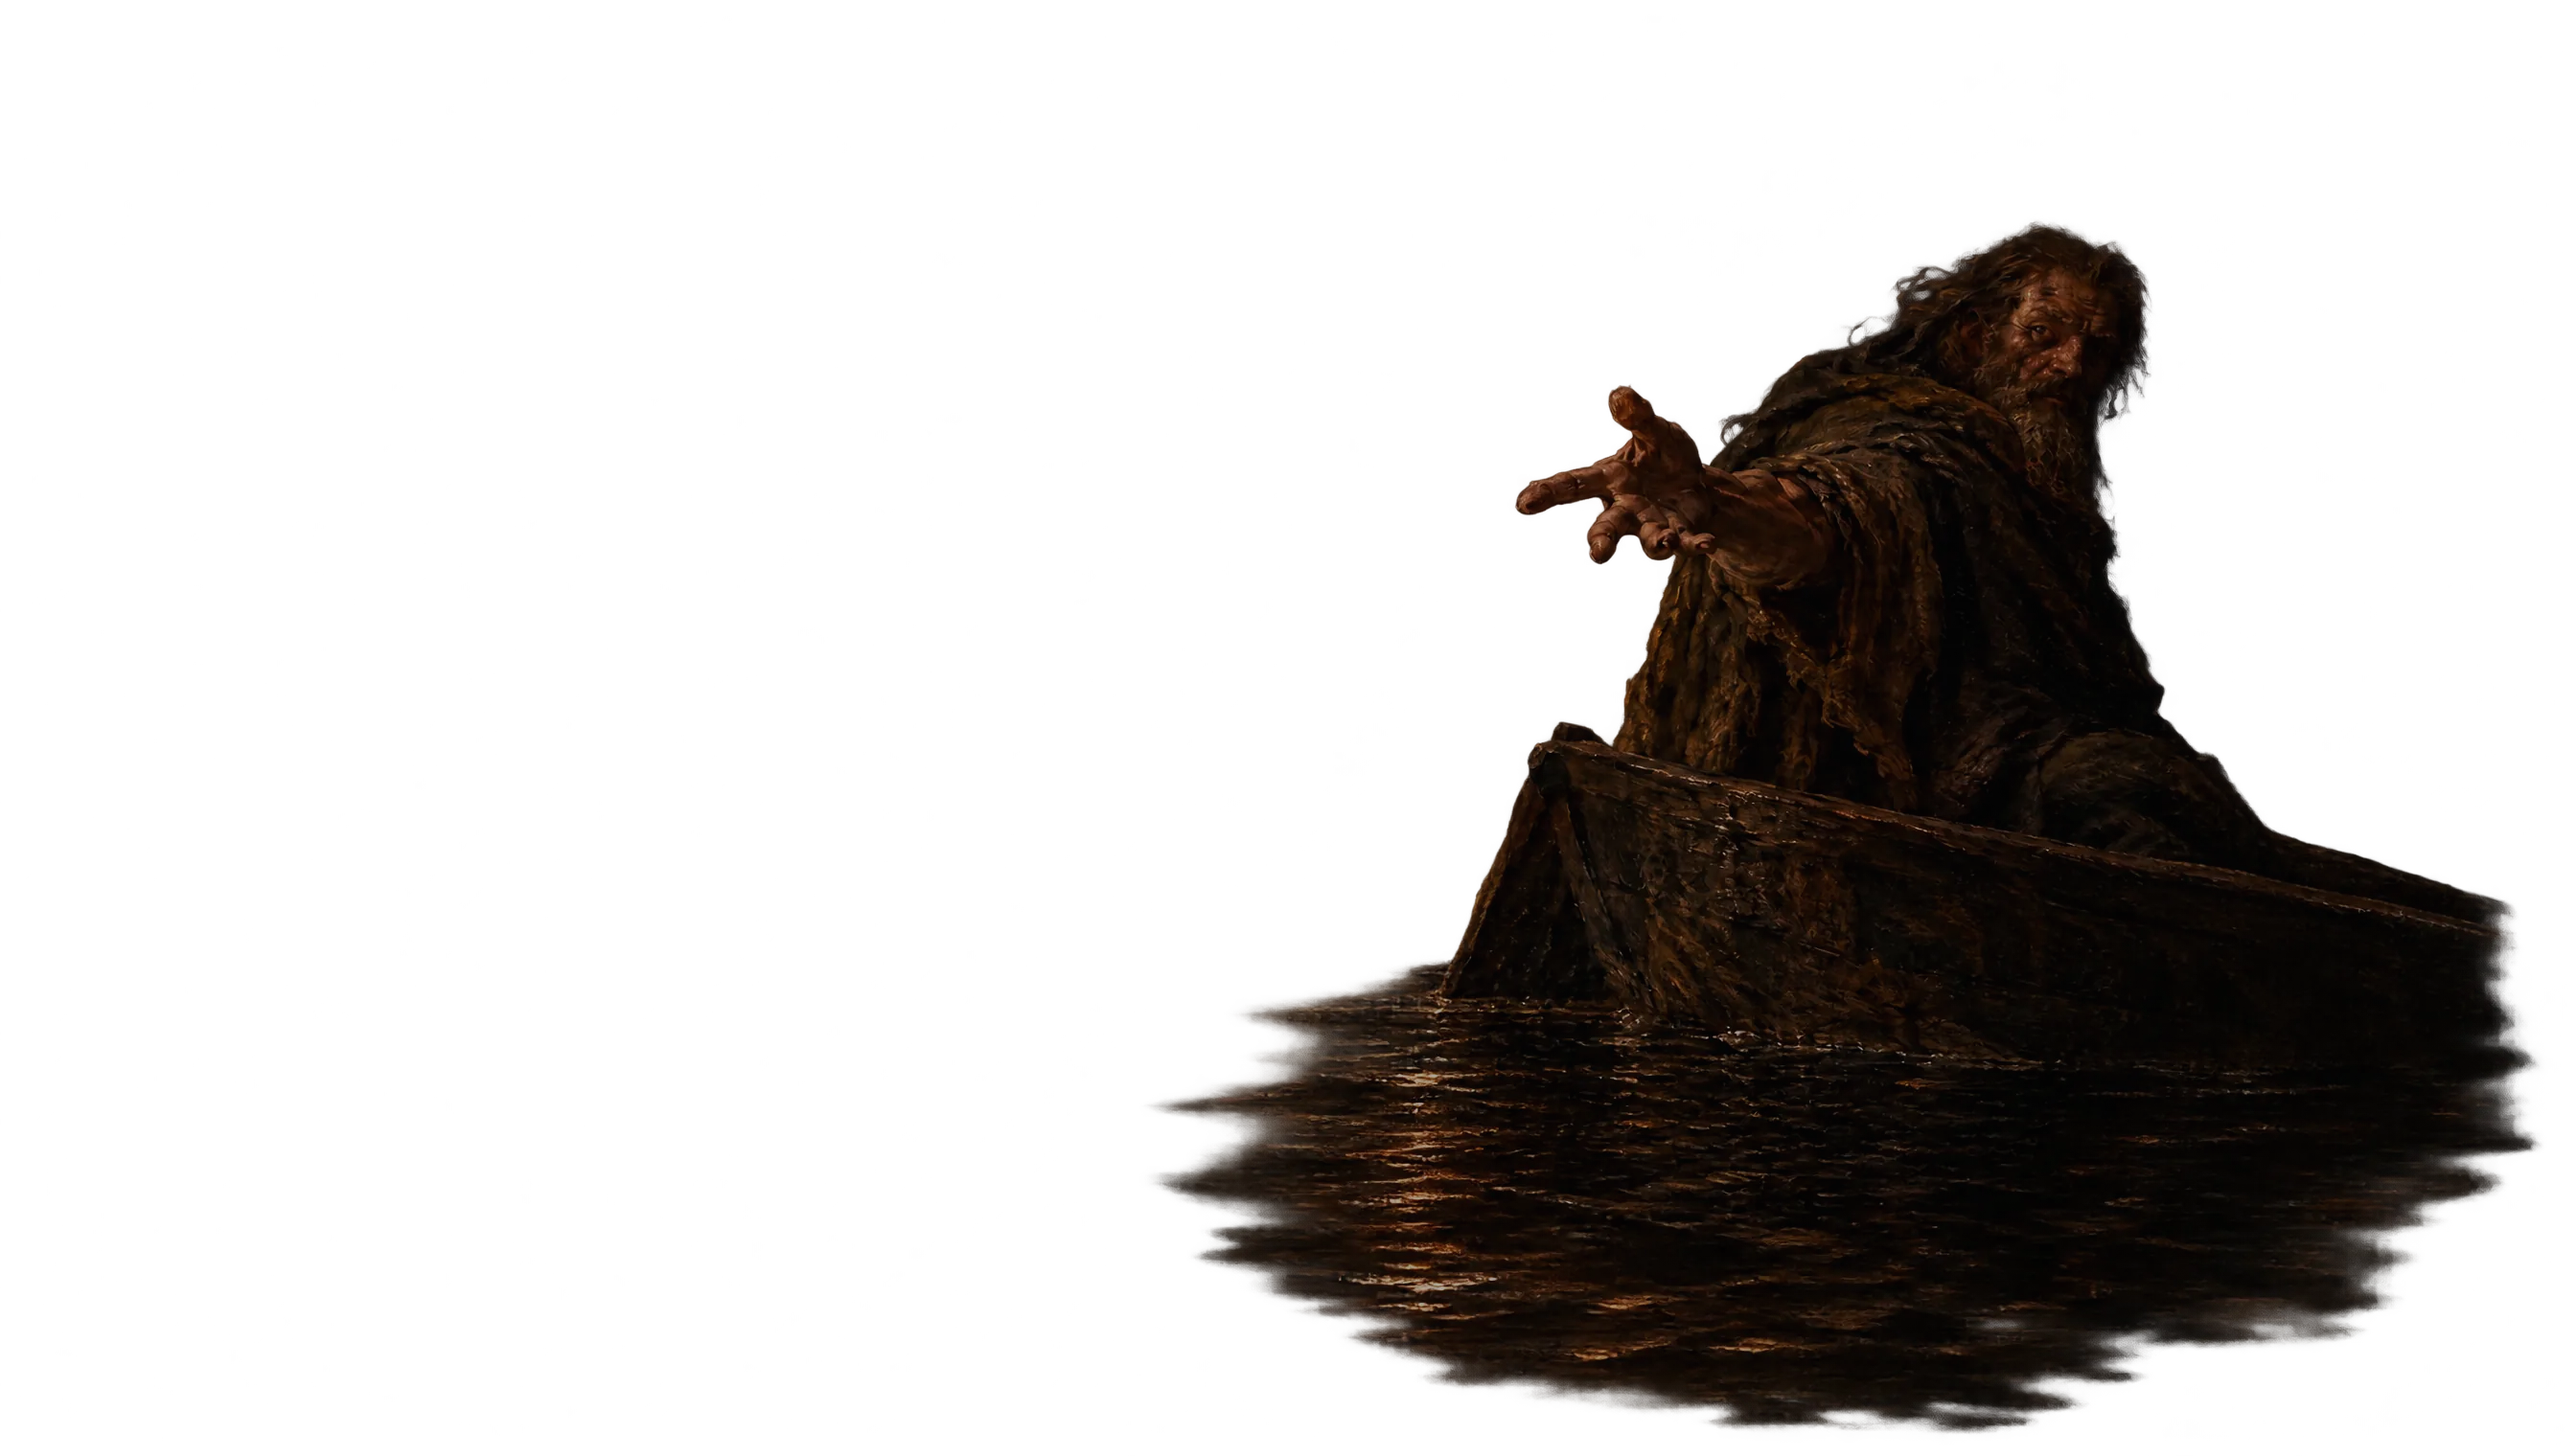
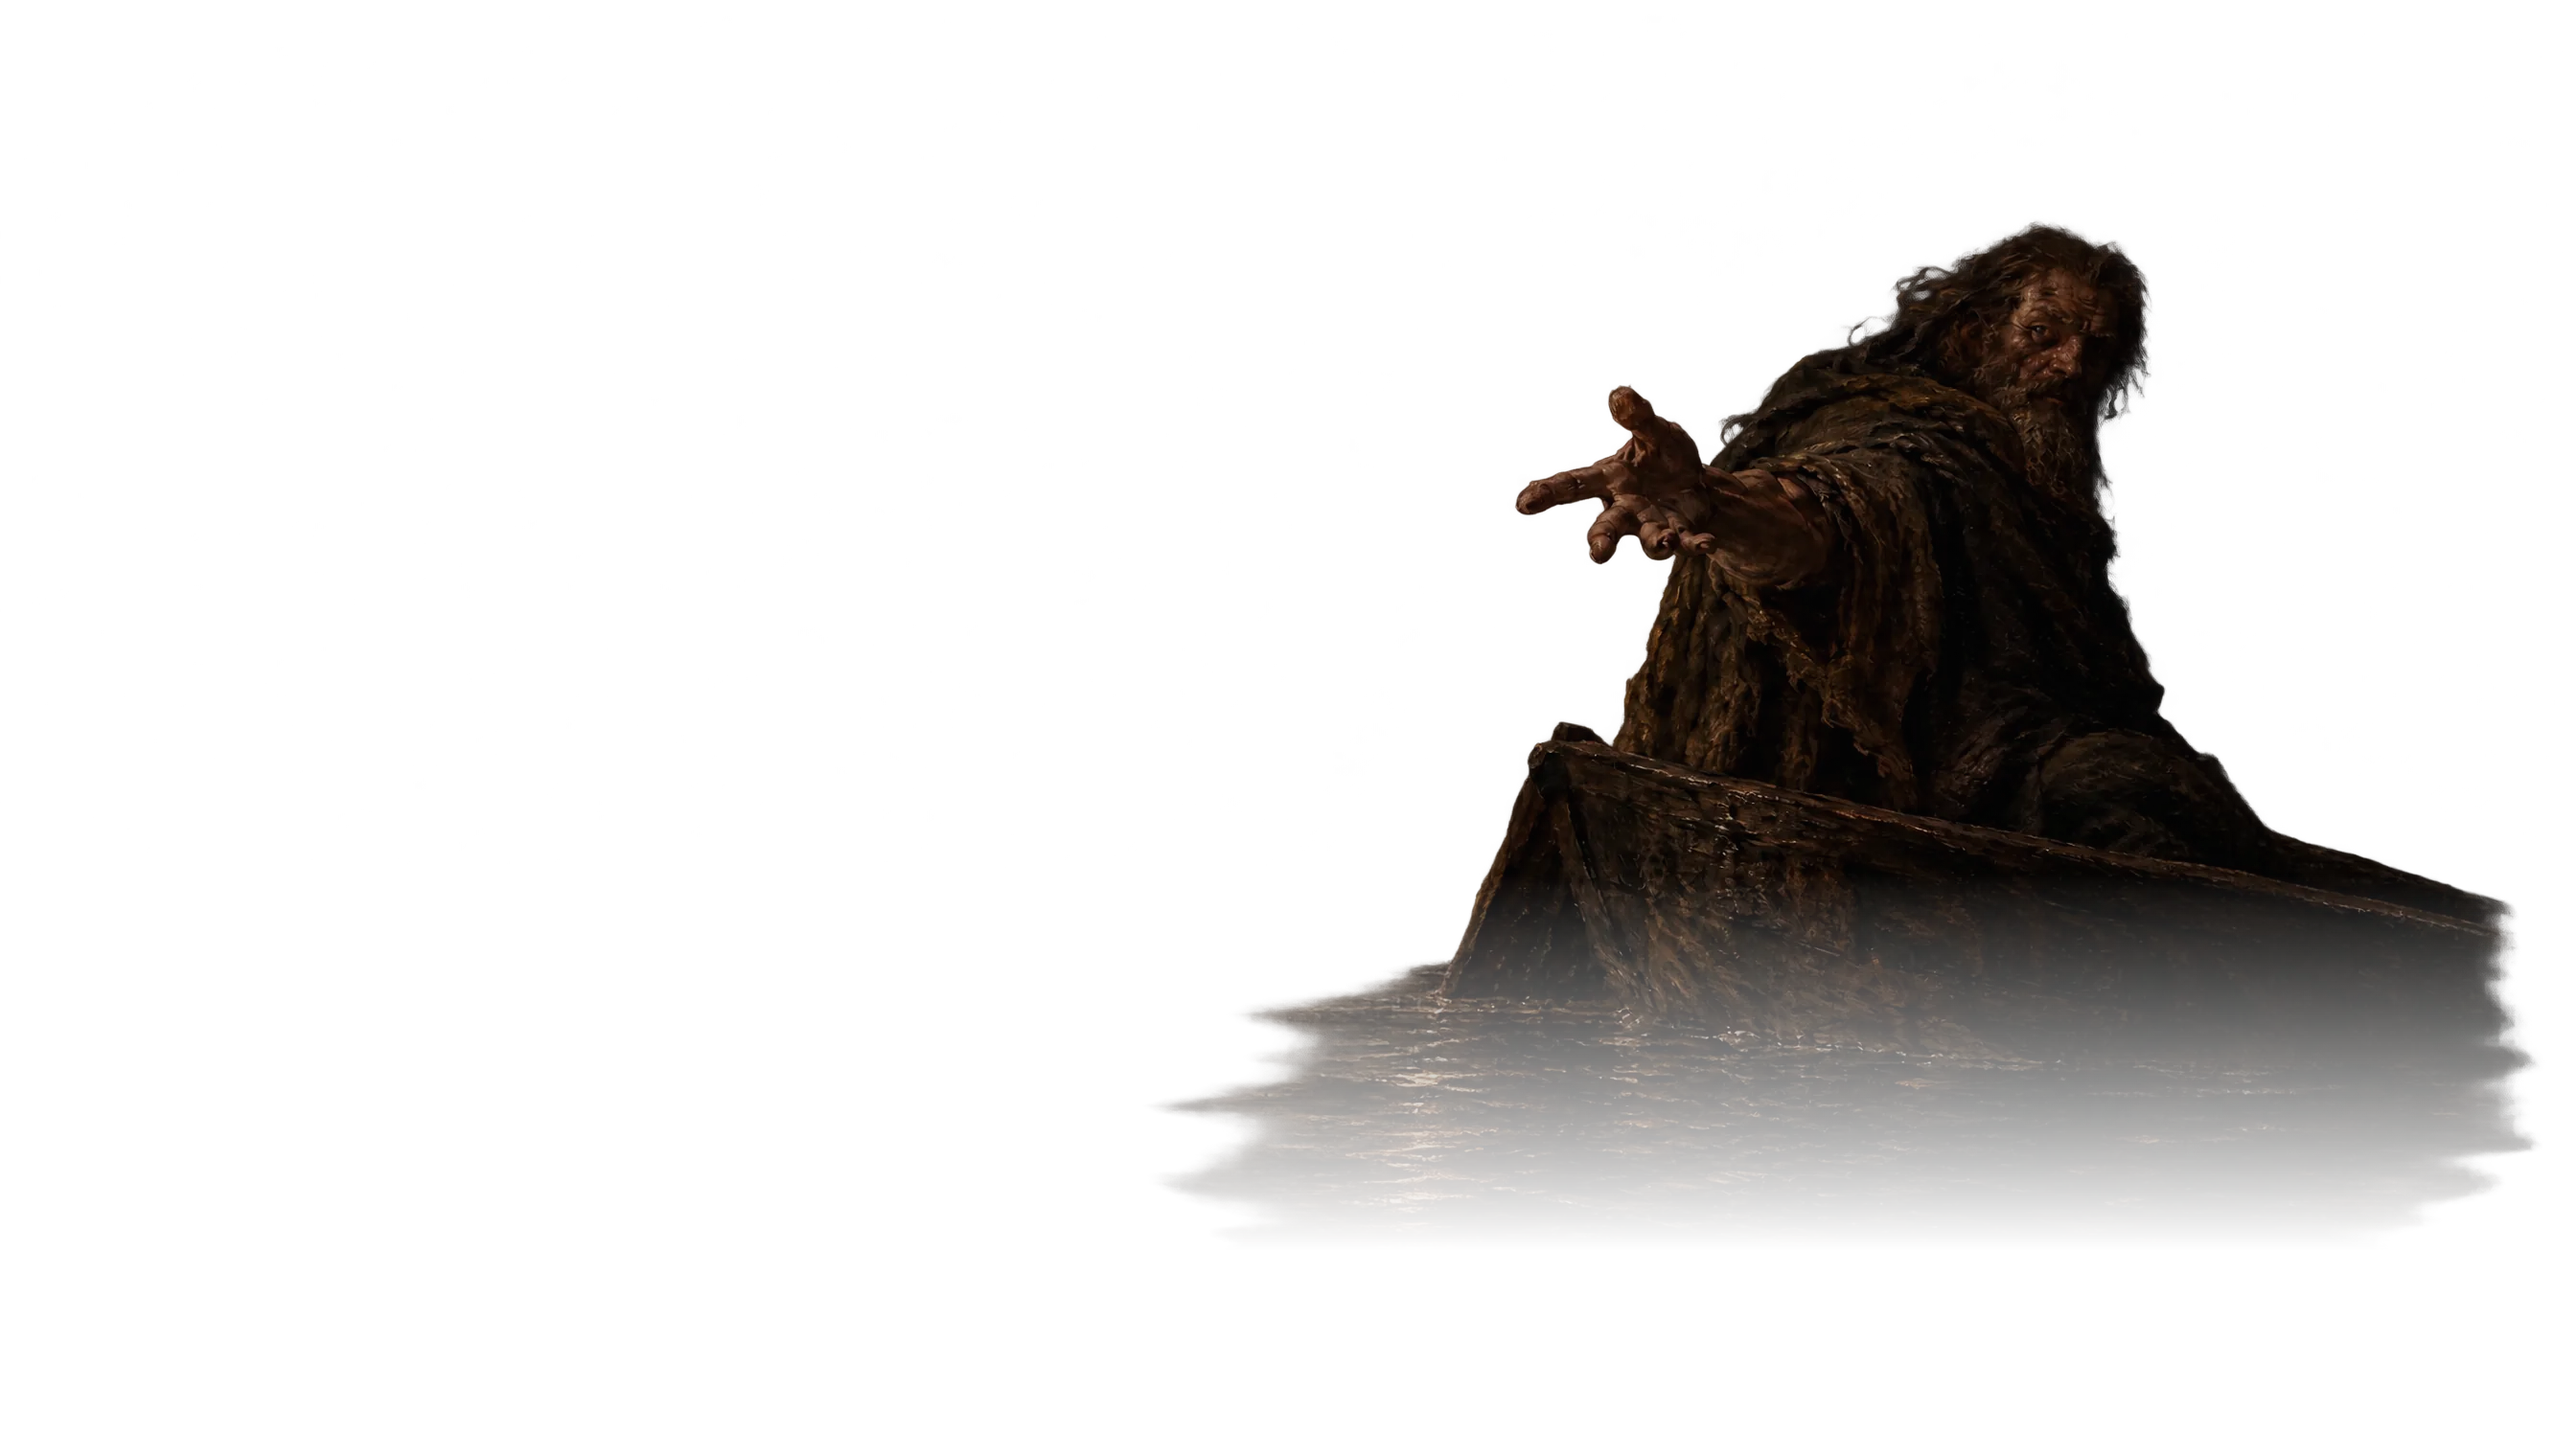
Hero planes: −20 % saturation, the boat plane fades into the water
Dmitriy: the planes read too vivid; and the boat's patch of water peeled
off the back plane's water as it receded. Every plane is desaturated to
.8; the mid plane's alpha is multiplied by a vertical ramp (opaque down
to 60 % of the height, transparent from 86 %) so its hull and ripples
sink into the back plane. All in tools/hero-planes.py.

Changed region(s): [[0.4375, 0.6184, 1.0, 0.9895]]

diff --git a/tools/hero-planes.py b/tools/hero-planes.py
@@ -1,21 +1,42 @@
 """Hero planes: assets/src/hero/*.png (lossless cut-outs of the master) →
-assets/img/hero/*.webp, darkened per depth so the coin stays the brightest
-thing in the scene (Dmitriy: back −55 %, the boat −35 %, the front planes −25 % — "значительно темнее", the order matters).
-Alpha is untouched. Re-run after changing DARKEN."""
+assets/img/hero/*.webp.
+- darkened per depth so the coin stays the brightest thing in the scene
+  (Dmitriy: back −55 %, the boat −35 %, the front planes −25 % — "значительно
+  темнее", the order matters);
+- saturation −20 % on every plane ("слишком акцентные");
+- the boat plane fades out towards its bottom (alpha × vertical ramp: 1 down
+  to FADE[0] of the height, 0 from FADE[1]) so its patch of water sinks into
+  the back plane's water instead of peeling off it as the boat recedes.
+Re-run after changing DARKEN / SAT / FADE."""
 import os
-from PIL import Image, ImageEnhance
+from PIL import Image, ImageChops, ImageEnhance
 
 ROOT = os.path.dirname(os.path.dirname(os.path.abspath(__file__)))
 SRC = os.path.join(ROOT, 'assets', 'src', 'hero')
 OUT = os.path.join(ROOT, 'assets', 'img', 'hero')
 DARKEN = {'back': 0.55, 'mid': 0.35, 'front-l': 0.25, 'front-r': 0.25}
+SAT = 0.8
+FADE = {'mid': (0.60, 0.86)}
+
+
+def ramp(size, y0, y1):
+    """'L' mask: 255 above y0·H, linear down to 0 at y1·H, 0 below."""
+    w, h = size
+    a, b = round(y0 * h), round(y1 * h)
+    col = bytes(255 if y < a else 0 if y >= b else round(255 * (b - y) / (b - a)) for y in range(h))
+    return Image.frombytes('L', (1, h), col).resize((w, h), Image.NEAREST)
+
 
 for name, k in DARKEN.items():
     im = Image.open(os.path.join(SRC, f'{name}.png')).convert('RGBA')
-    rgb = ImageEnhance.Brightness(im.convert('RGB')).enhance(1 - k)
+    rgb = ImageEnhance.Color(im.convert('RGB')).enhance(SAT)
+    rgb = ImageEnhance.Brightness(rgb).enhance(1 - k)
     if name == 'back':
         rgb.save(os.path.join(OUT, f'{name}.webp'), 'WEBP', quality=85, method=6)
     else:
-        rgb.putalpha(im.getchannel('A'))
+        alpha = im.getchannel('A')
+        if name in FADE:
+            alpha = ImageChops.multiply(alpha, ramp(im.size, *FADE[name]))
+        rgb.putalpha(alpha)
         rgb.save(os.path.join(OUT, f'{name}.webp'), 'WEBP', quality=82, method=6)
     print(f'{name:8s} -{k:.0%}  {os.path.getsize(os.path.join(OUT, f"{name}.webp")) // 1024} KB')
